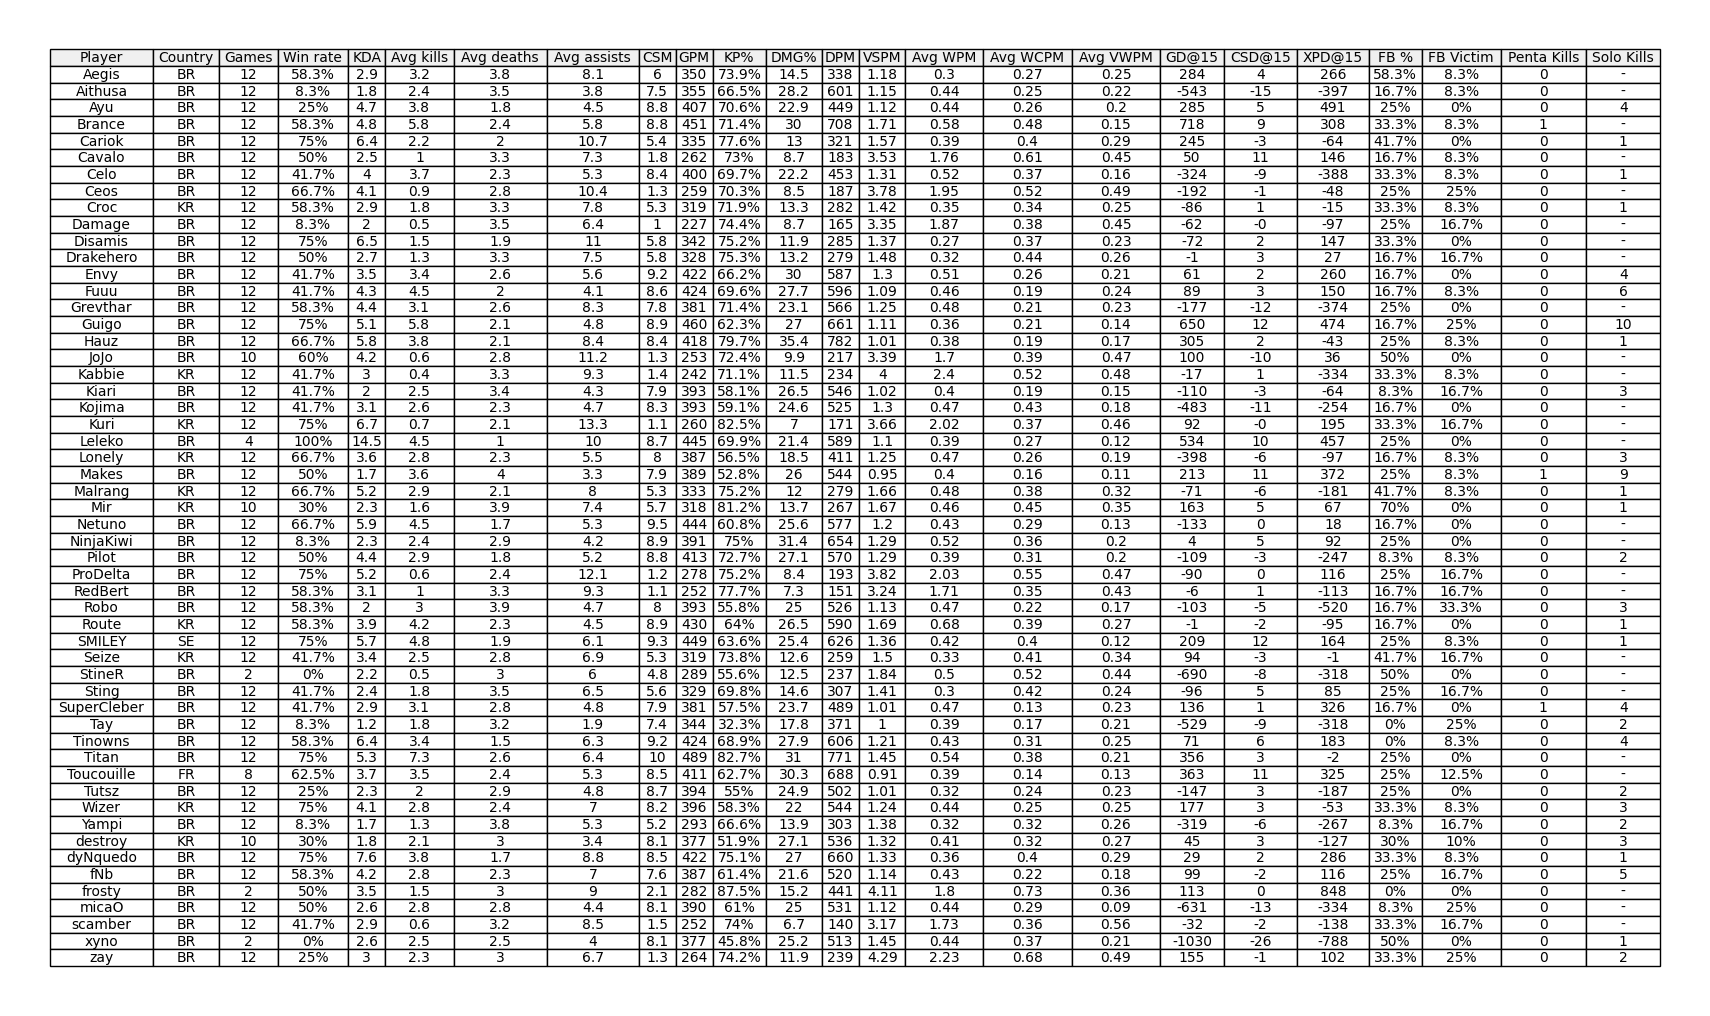
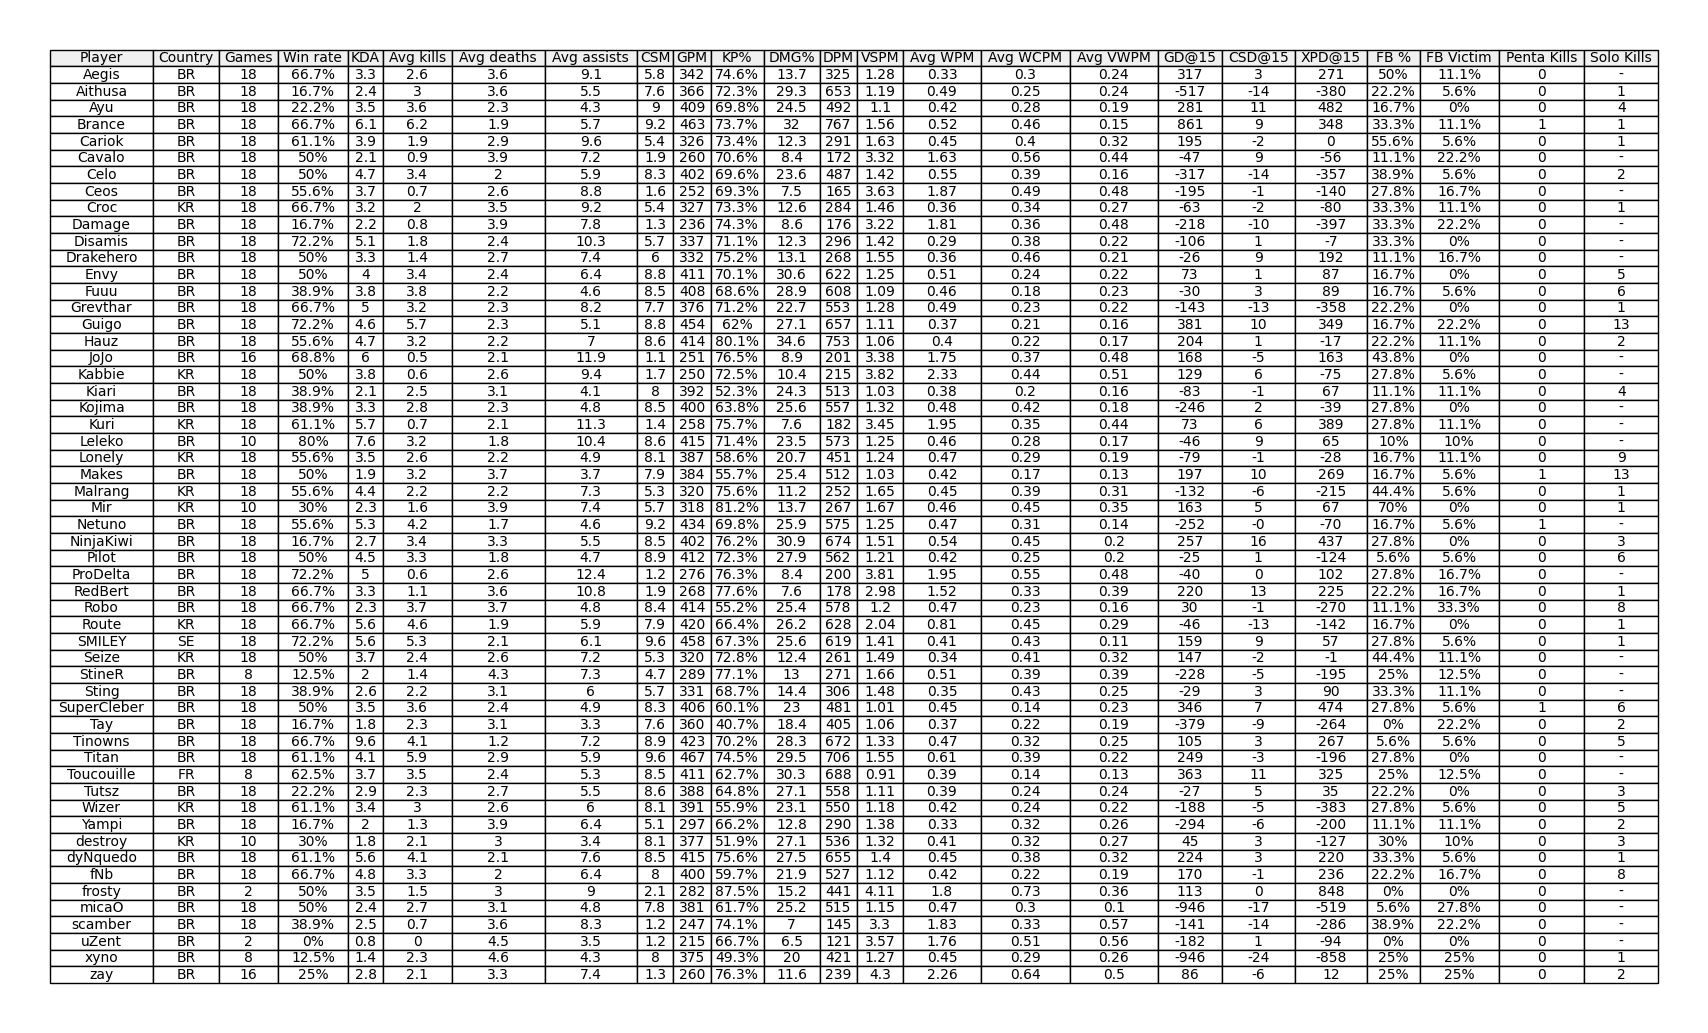
capitura dos dados do time da Loud e comunicação do python para o Js

diff --git a/index.html b/index.html
@@ -1,23 +1,13 @@
+<!-- index.html -->
 <!DOCTYPE html>
-<html lang="pt-BR">
+<html lang="en">
 <head>
-  <meta charset="UTF-8">
-  <meta name="viewport" content="width=device-width, initial-scale=1.0">
-  <title>Cartinhas CBLOL</title>
+    <meta charset="UTF-8">
+    <meta name="viewport" content="width=device-width, initial-scale=1.0">
+    <title>Cartinhas CBLOL</title>
 </head>
 <body>
-  <button onclick="fetchData()">Get Data</button>
-  <script>
-    async function fetchData() {
-        try {
-            const response = await fetch('http://127.0.0.1:5500/get_data_furia')
-            const data = await response.json()
-
-            console.log(data)
-        } catch (error) {
-            console.error('Erro ao obter dados:', error)
-        }
-    }
-</script>
+    <div id="conteudo"></div>
+    <script src="JavaScript/script.js"></script>
 </body>
 </html>

diff --git a/JavaScript/script.js b/JavaScript/script.js
@@ -1,0 +1,24 @@
+document.addEventListener("DOMContentLoaded", function () {
+    let data = localStorage.getItem("cartinhas_data")
+
+    if (data) {
+        mostrarCampeao(JSON.parse(data))
+    } else {
+        fetch("cartinhas.json")
+            .then(response => response.json())
+            .then(data => {
+                localStorage.setItem("cartinhas_data", JSON.stringify(data))
+                mostrarCampeao(data)
+            })
+            .catch(error => console.error("Erro ao obter os dados:", error))
+    }
+
+    function mostrarCampeao(data) {
+        data.forEach(element => {
+            console.log(element[1])
+            console.log(element[2])
+            console.log(element[3])
+            console.log(element[7])
+        });
+    }
+})

diff --git a/Python/cartinhasLoud.py b/Python/cartinhasLoud.py
@@ -1,0 +1,81 @@
+import requests
+from bs4 import BeautifulSoup
+import pandas as pd
+import matplotlib.pyplot as plt
+import re
+import json
+
+def extract_champion_data(champion_info):
+    champion = ''
+    winrate = ''
+    kda = ''
+    
+    match_champion = re.search(r'(.+?)\s+Winrate', champion_info)
+    if match_champion:
+        champion = match_champion.group(1).strip()
+    
+    match_winrate = re.search(r'Winrate\s*:\s*([\d.]+%?)', champion_info)
+    if match_winrate:
+        winrate = match_winrate.group(1).strip()
+    
+    match_kda = re.search(r'KDA\s*:\s*([\d.]+)', champion_info)
+    if match_kda:
+        kda = match_kda.group(1).strip()
+    
+    match_games = re.search(r'(\d+)\s*$', champion_info, re.MULTILINE)
+    if match_games:
+        games = match_games.group(1).strip()
+    
+    return {
+        'Champion': champion,
+        'Winrate': winrate,
+        'KDA': kda,
+    }
+
+url = "https://gol.gg/teams/team-stats/2180/split-ALL/tournament-CBLOL%20Split%201%202024/"
+headers = {
+    'User-Agent': 'Mozilla/5.0 (Windows NT 10.0; Win64; x64) AppleWebKit/537.36 (KHTML, like Gecko) Chrome/58.0.3029.110 Safari/537.3'}
+
+response = requests.get(url, headers=headers)
+
+if response.status_code == 200:
+    soup = BeautifulSoup(response.text, 'html.parser')
+
+    table = soup.find('table', class_='footable')
+
+    if table:
+        data = []
+        for row in table.find_all('tr'):
+            columns = row.find_all(['td', 'th'])
+            data.append([column.text.strip() for column in columns])
+
+        for row in data[1:]:
+            if len(row) == 8:
+                champion_info = row[-1]
+                champion_data = extract_champion_data(champion_info)
+                row[-1] = champion_data
+        print(data)
+        
+        json_data = json.dumps(data)
+        
+        with open('cartinhas.json', 'w') as f:
+            f.write(json_data)
+        
+        df = pd.DataFrame(data[1:], columns=data[0])
+        
+        fig, ax = plt.subplots(figsize=(10, 6))
+        ax.axis('off')
+
+        tab = ax.table(cellText=df.values, colLabels=df.columns, cellLoc='center', loc='center', colColours=['#f0f0f0']*len(df.columns))
+        tab.auto_set_font_size(False)
+        tab.set_fontsize(10)
+
+        tab.auto_set_column_width([i for i in range(len(df.columns))])
+
+        plt.savefig('tabelaLoud.png', bbox_inches='tight', pad_inches=0.5)
+        # plt.show()
+        
+    else:
+        print("Nenhuma tabela encontrada no site.")
+else:
+    print('Erro ao acessar o site:', response.status_code)

diff --git a/Python/cartinhas.py b/Python/cartinhas.py
@@ -20,6 +20,8 @@ if response.status_code == 200:
             columns = row.find_all(['td', 'th'])
             data.append([column.text.strip() for column in columns])
 
+        print(data)
+
         df = pd.DataFrame(data[1:], columns=data[0])
 
         fig, ax = plt.subplots(figsize=(10, 6))
@@ -32,7 +34,7 @@ if response.status_code == 200:
         tab.auto_set_column_width([i for i in range(len(df.columns))])
 
         plt.savefig('tabela.png', bbox_inches='tight', pad_inches=0.5)
-        plt.show()
+        # plt.show()
     else:
         print("Nenhuma tabela encontrada no site.")
 else:
